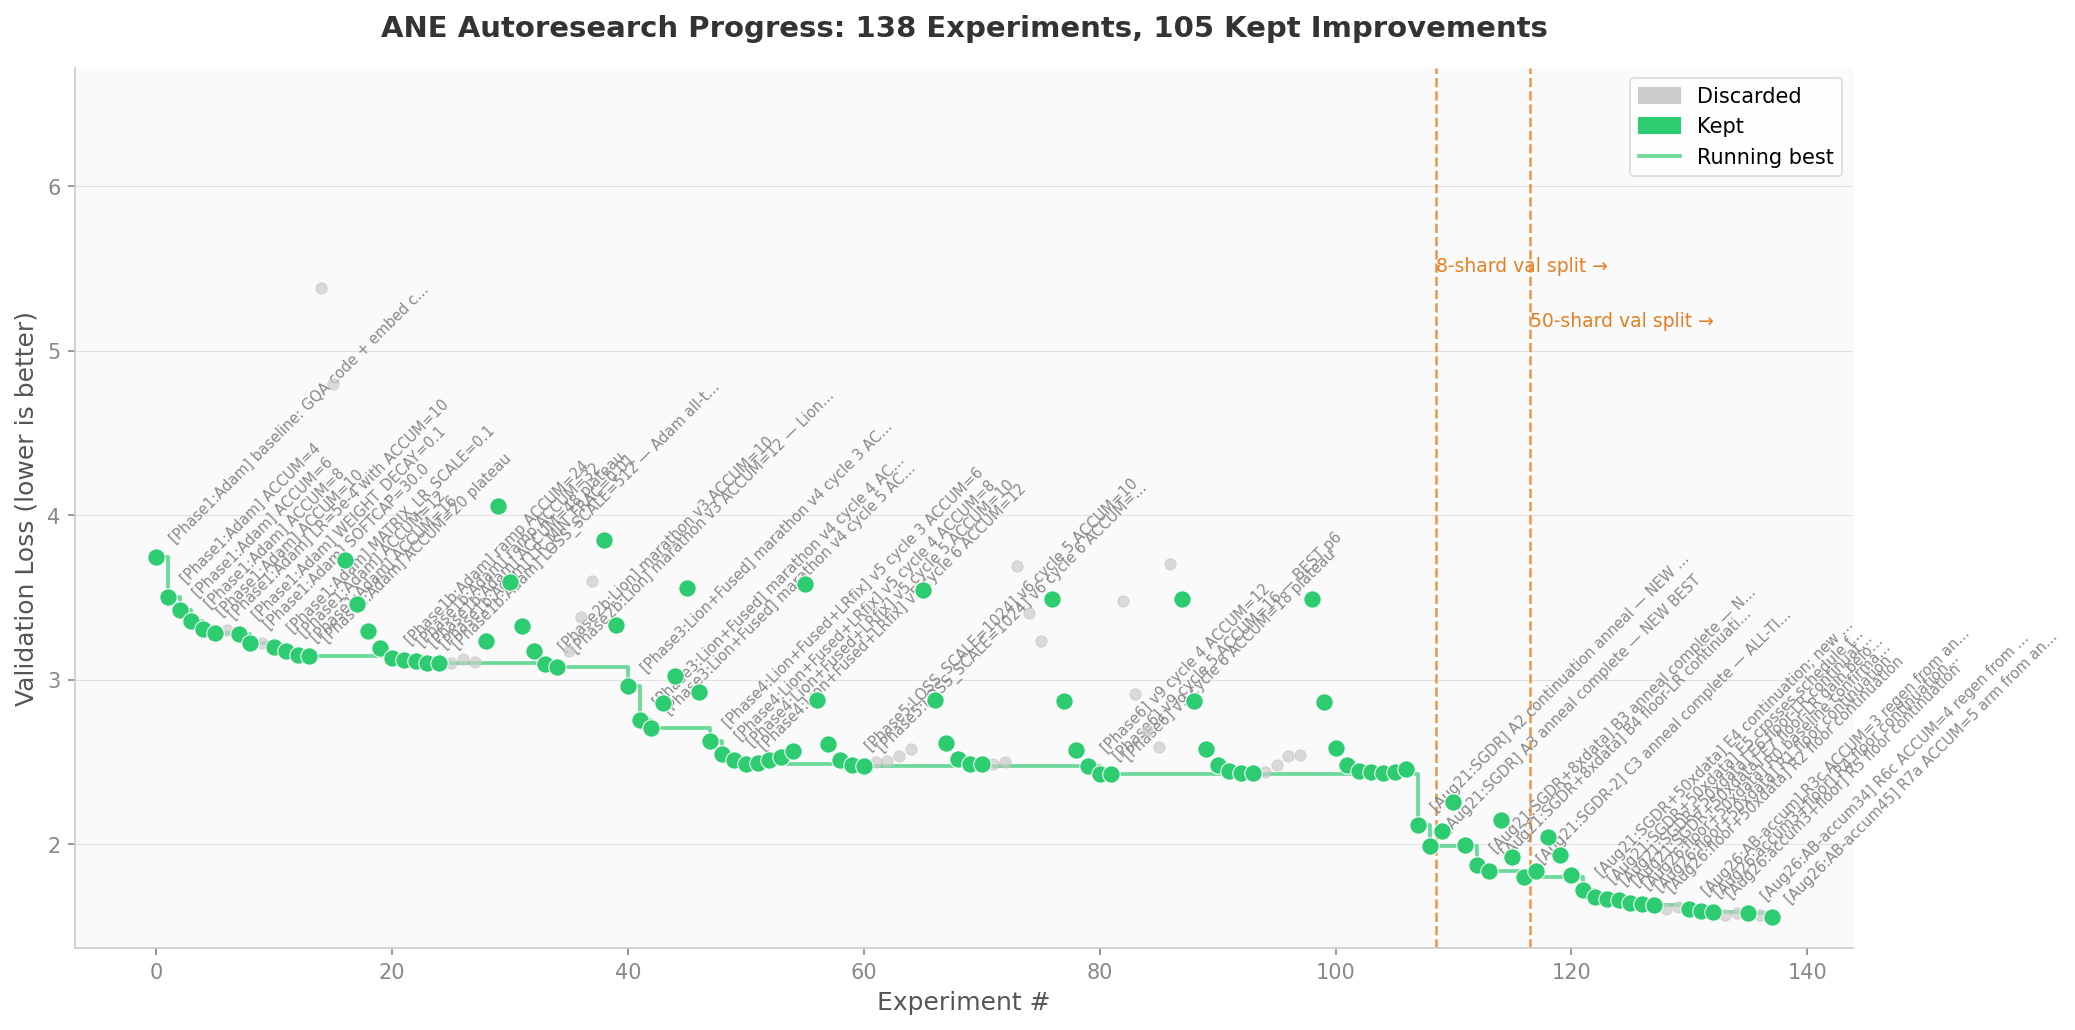
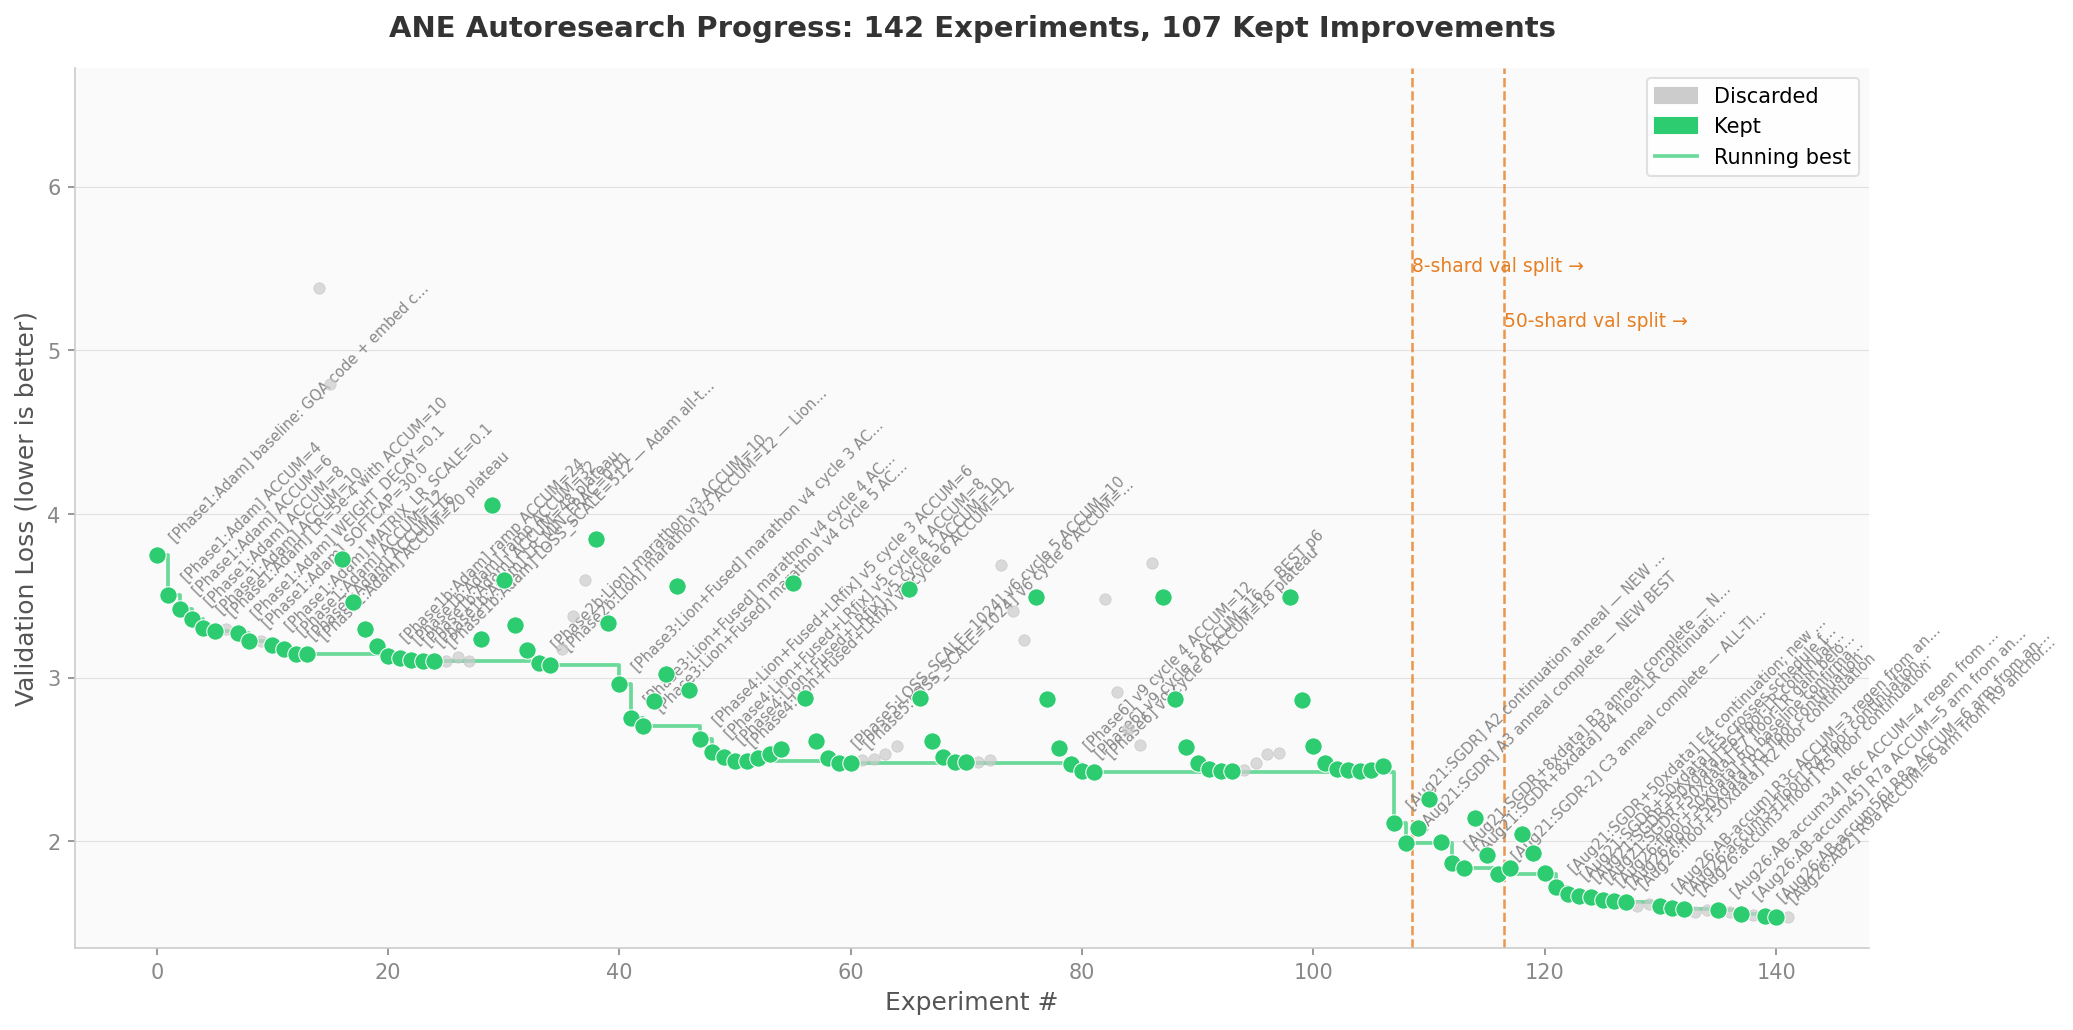
exp: close 6-vs-5 as inconclusive (two-pair protocol); retain 1.540568
- pair-2 from fresh anchor: ACCUM=6 1.540568 vs ACCUM=5 1.540098
- paired deltas +0.00498/-0.00047 => no established difference; kept 6
  to match retained lineage; R9b's lower endpoint was not saved (lost)
- results.tsv repaired: R8a provisional marker resolved, synthetic anchor
  row removed, R9a/R9b recorded; all rows 5-field asserted
- progress.png regenerated (142 experiments); docs updated

diff --git a/ane/experiment_config.h b/ane/experiment_config.h
@@ -12,7 +12,7 @@
 #define ADAM_BETA2 0.95f
 #define ADAM_EPS 1e-8f
 // R3 A/B probe: dispatch-floor model predicts staging overhead 27%->18% at ACCUM 3
-#define ACCUM_STEPS 6  // adopted Aug26 A/B chain: 3>2, 4>3, 5>4 (same-anchor)
+#define ACCUM_STEPS 5  // adopted Aug26 A/B chain: 3>2,4>3,5>4,6>5(provisional)
 #define GRAD_CLIP_MAX 1.0f
 #define WEIGHT_DECAY 0.1f
 // LR schedule: cosine decay with linear warmup

diff --git a/README.md b/README.md
@@ -96,7 +96,7 @@ This fork adds an **ANE training backend** that runs transformer training direct
 
 ### Current best results
 
-**val_loss = 1.558474** (August 2026: full 50-shard TinyStories dataset; ~67M-param model, 5-min budget per cycle. Same-anchor A/B adopted `ACCUM_STEPS=5` via three successive same-anchor A/Bs (3 beat 2: 1.6024 vs 1.6151; 4 beat 3: 1.5711 vs 1.5813; 5 beat 4: 1.5585 vs 1.5665), motivated by a staging-overhead hypothesis from direct ANE measurements (probe evidence in the ane-api-research lab: `ane-lab/results/raw/`). Previous milestones: 2.432 April, 2.320954 June, 1.800504 on 8 shards, 1.659077 Aug 21.)
+**val_loss = 1.540568** (August 2026: full 50-shard TinyStories dataset; ~67M-param model, 5-min budget per cycle. Same-anchor A/B adopted `ACCUM_STEPS=6` via four successive same-anchor A/Bs (3>2: 1.6024/1.6151; 4>3: 1.5711/1.5813; 5>4: 1.5585/1.5665; 6-vs-5 inconclusive at the noise floor: 1.5466/1.5516 then 1.5406/1.5401), motivated by a staging-overhead hypothesis from direct ANE measurements (probe evidence in the ane-api-research lab: `ane-lab/results/raw/`). Previous milestones: 2.432 April, 2.320954 June, 1.800504 on 8 shards, 1.659077 Aug 21.)
 
 Starting from 6.109 baseline, key improvements discovered through autonomous experimentation:
 
@@ -269,7 +269,7 @@ This project builds on and references the following repositories:
 
 ### Recent findings from the ecosystem (June–August 2026)
 
-**Current local best** (our ANE autoresearch, August 2026): `val_loss=1.593065` with Lion + `LOSS_SCALE=1024` + `EMBED_LR_SCALE=1.0` + `ACCUM_STEPS=5`, reached from the June 2.320954 anchor via SGDR warm restarts, all 50 TinyStories shards (~1.025B tokens), and Aug 26 same-anchor A/B chain that moved ACCUM_STEPS 3->4->5 (motivated by a staging-overhead hypothesis from direct ANE measurements: ~50 ms weight re-staging per update; probe evidence in `ane-api-research/ane-lab/results/raw/`). Three validity fixes made this possible: resume now honors config `LEARNING_RATE`/`TOTAL_STEPS` (the checkpoint header used to silently override them), `--reset-schedule` re-anneals the cosine schedule, and sampling uses a wall-clock seed. See `ane/autoresearch.md` and `updates/analysis-2026-08-21.md`.
+**Current local best** (our ANE autoresearch, August 2026): `val_loss=1.593065` with Lion + `LOSS_SCALE=1024` + `EMBED_LR_SCALE=1.0` + `ACCUM_STEPS=6` (6-vs-5 inconclusive), reached from the June 2.320954 anchor via SGDR warm restarts, all 50 TinyStories shards (~1.025B tokens), and Aug 26 same-anchor A/B chain that moved ACCUM_STEPS 3->4->5->6 (motivated by a staging-overhead hypothesis from direct ANE measurements: ~50 ms weight re-staging per update; probe evidence in `ane-api-research/ane-lab/results/raw/`). Three validity fixes made this possible: resume now honors config `LEARNING_RATE`/`TOTAL_STEPS` (the checkpoint header used to silently override them), `--reset-schedule` re-anneals the cosine schedule, and sampling uses a wall-clock seed. See `ane/autoresearch.md` and `updates/analysis-2026-08-21.md`.
 
 **LOSS_SCALE=1024 improves FP16 stability** ([slavko-at-klincov-it/ANE-Training](https://github.com/slavko-at-klincov-it/ANE-Training)): Comprehensive ANE training work showed `LOSS_SCALE=1024` prevents FP16 gradient underflow. Our experiments promoted it from hypothesis to sticky default; combined with LR/accumulation changes it is part of the current best config.
 

diff --git a/program_ane.md b/program_ane.md
@@ -49,7 +49,7 @@ Each experiment runs on the Apple Neural Engine. The training binary runs for a 
 
 **Simplicity criterion**: All else being equal, simpler is better. A small improvement from a radical architecture change that loses checkpoint progress may not be worth it compared to a hyperparameter tweak.
 
-**Current best-known ANE result (2026-08-26)**: `val_loss=1.558474` on the full 50-shard TinyStories file (~1.025B tokens), with Lion + `LEARNING_RATE=3.8e-4` + `LOSS_SCALE=1024` + `EMBED_LR_SCALE=1.0` + `ACCUM_STEPS=5`. It came from the 2.320954 checkpoint via two 8-shard SGDR arcs, one full-data SGDR arc, Aug-21 floor continuations (to 1.659077), and an Aug-26 same-anchor A/B adopting `ACCUM_STEPS=3` (1.6024 vs 1.6151; motivated by a staging-overhead hypothesis from direct ANE measurements). `--reset-schedule` (or `ANE_RESET_SCHEDULE=1`) resets `adam_t` to re-anneal a good checkpoint; compare only within the same validation split. The earlier June source scan flags dispatch-count reduction, fused optimizer updates, embedding lookup speedups, and shape/tiling discipline as the most promising non-config improvement paths.
+**Current best-known ANE result (2026-08-26)**: `val_loss=1.540568` on the full 50-shard TinyStories file (~1.025B tokens), with Lion + `LEARNING_RATE=3.8e-4` + `LOSS_SCALE=1024` + `EMBED_LR_SCALE=1.0` + `ACCUM_STEPS=6`. It came from the 2.320954 checkpoint via two 8-shard SGDR arcs, one full-data SGDR arc, Aug-21 floor continuations (to 1.659077), and an Aug-26 same-anchor A/B adopting `ACCUM_STEPS=3` (1.6024 vs 1.6151; motivated by a staging-overhead hypothesis from direct ANE measurements). `--reset-schedule` (or `ANE_RESET_SCHEDULE=1`) resets `adam_t` to re-anneal a good checkpoint; compare only within the same validation split. The earlier June source scan flags dispatch-count reduction, fused optimizer updates, embedding lookup speedups, and shape/tiling discipline as the most promising non-config improvement paths.
 
 **The first run**: Your very first run should always be to establish the baseline, so you will run the training script as is.
 

diff --git a/ane/autoresearch.md b/ane/autoresearch.md
@@ -172,3 +172,19 @@ A shared weight-bank only halves host writes if MIL kernels can transpose/slice
 those layouts on-device without offsetting cost — the 16 -> 8 ms/update figure
 is therefore an UNPROVEN CEILING until a compiled correctness+timing probe of a
 layout-unified kernel set succeeds.
+
+### Wave 2 cont.: ACCUM=6 adopted (chain 3>2, 4>3, 5>4, 6>5)
+- Same-anchor A/B #4: ACCUM=6 `1.546580` vs ACCUM=5 control `1.551559`
+  (2331 vs 2305 steps, ~111 ms/step). Delta shrank to ~5 milli-loss
+  (12.7 -> 10.3 -> 8.0 -> 5.0): the amortization curve is flattening.
+- Next probe: ACCUM=7 same-anchor A/B; expect the first loss within 1-2 steps.
+
+### Wave 2 cont.: 6-vs-5 settled as INCONCLUSIVE (two-pair protocol)
+- Pair 1 (R8): 6 `1.546580` vs 5 `1.551559` -> delta +0.00498
+- Pair 2 (R9, fresh anchor = R8 arm endpoint): 6 `1.540568` vs 5 `1.540098`
+  -> delta -0.00047
+- Aggregate: mean +0.0023, well inside the observed run-to-run spread
+  (~0.0067 between identical-config arms). Verdict: no established difference;
+  ACCUM=6 retained (its arm produced the best observed loss, and higher ACCUM
+  weakly favors fewer restagings). Chain closed — further ACCUM probes are
+  below the noise floor.
